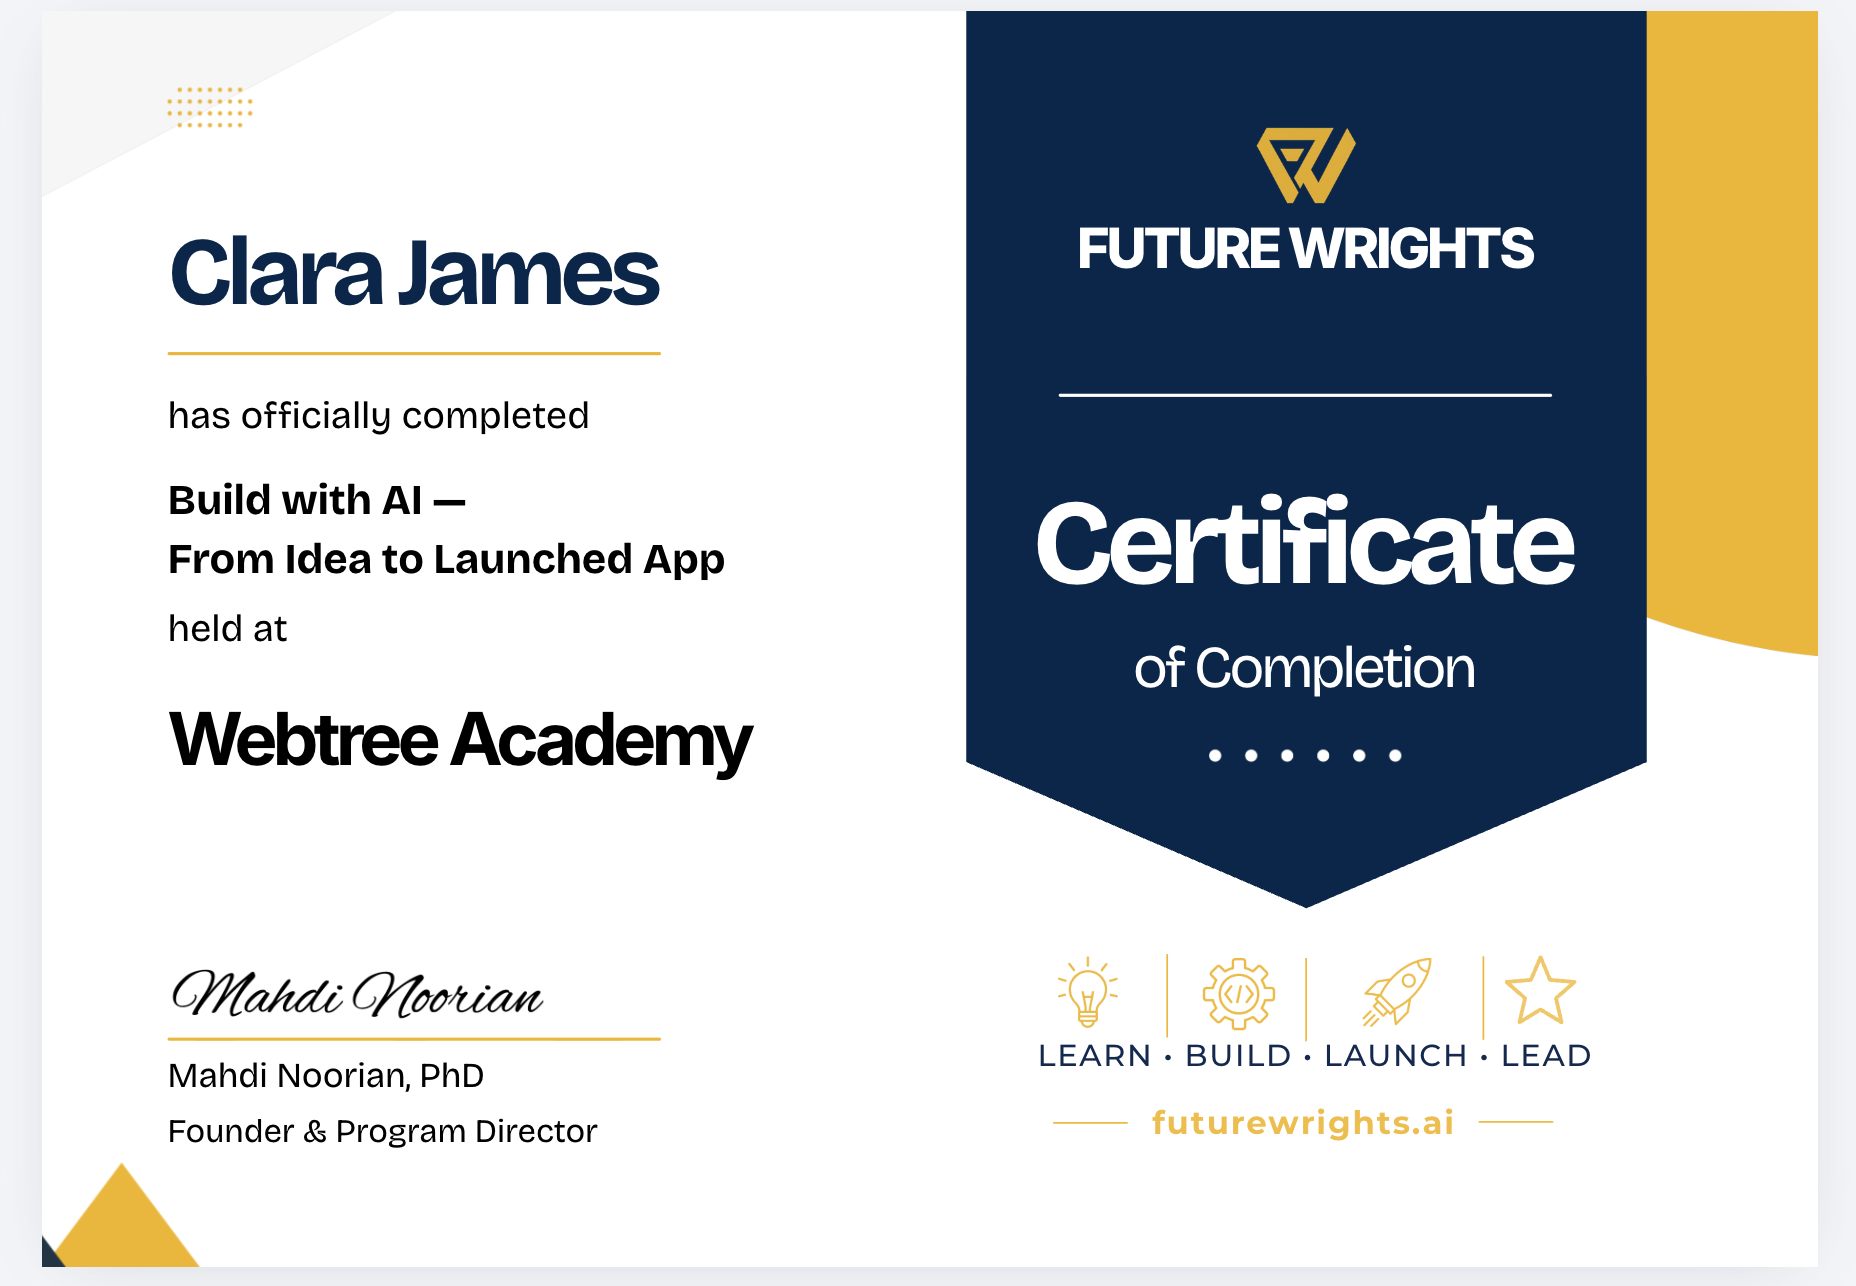
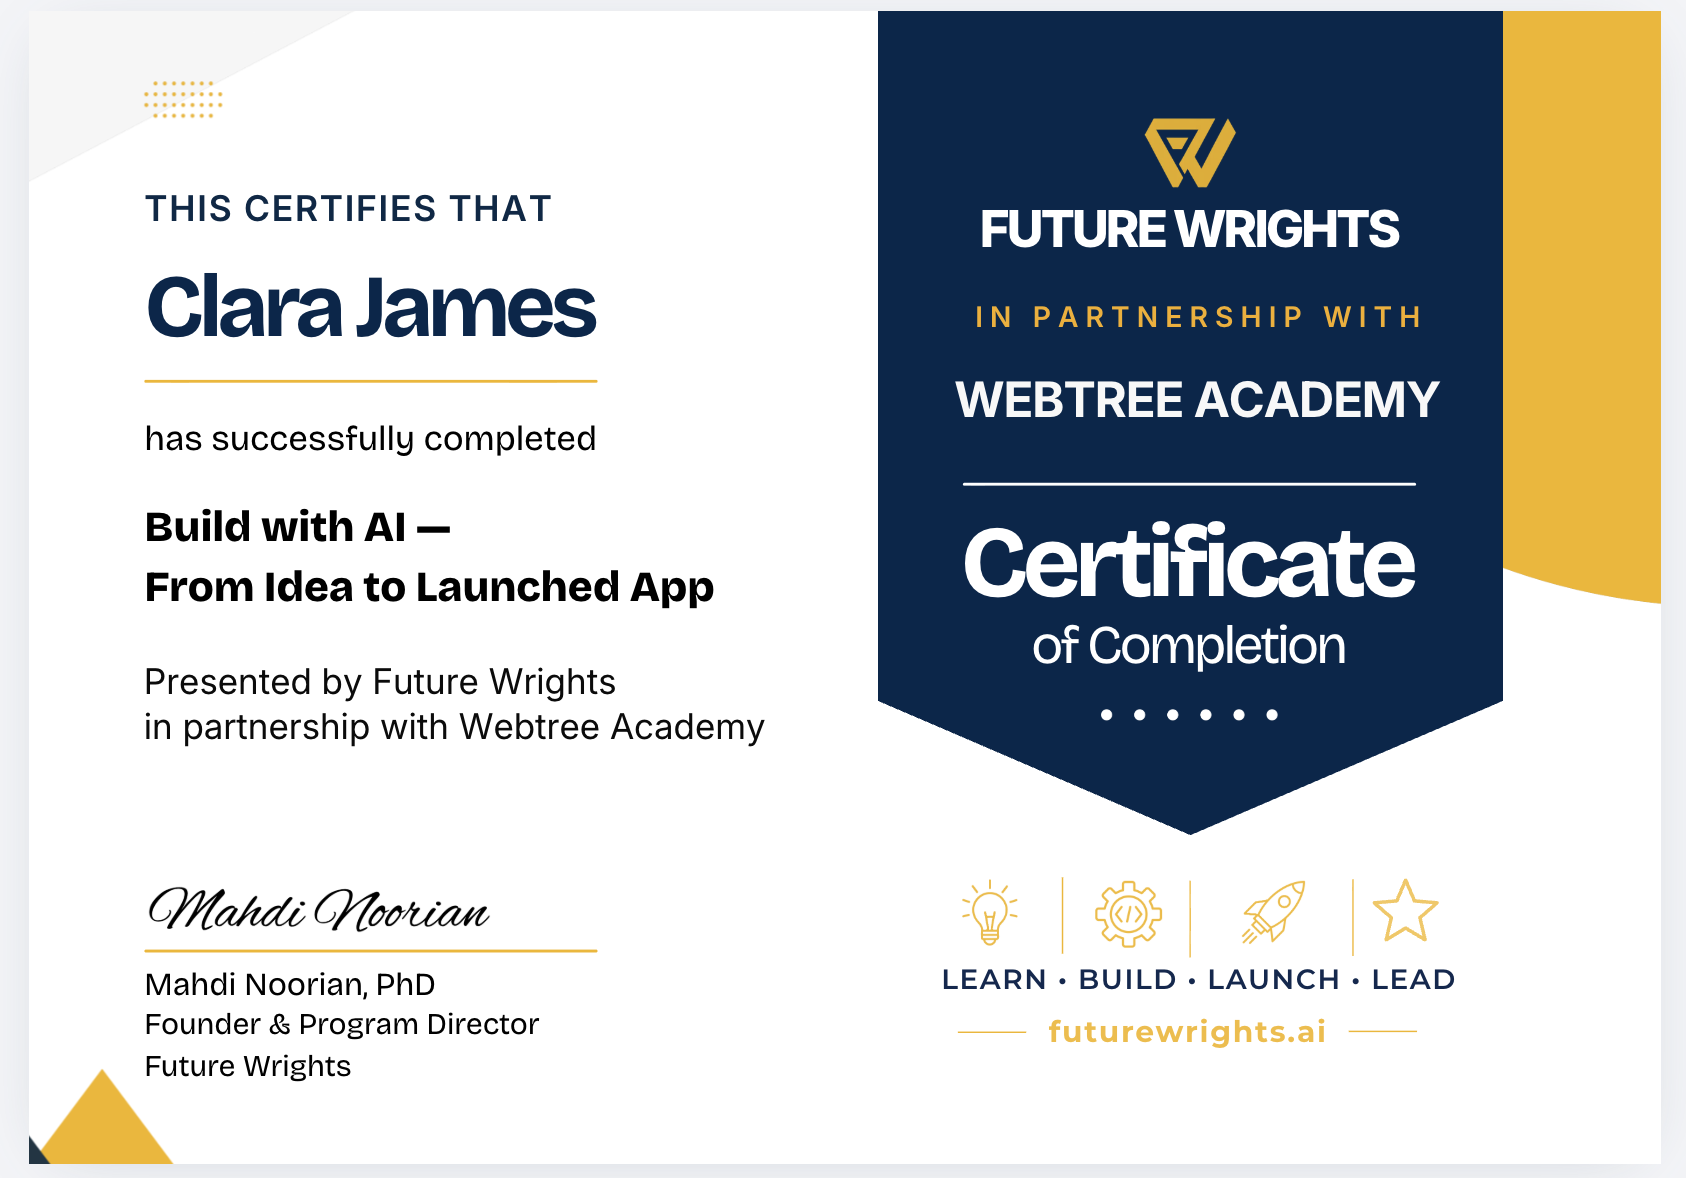
Update March bootcamp sample completion certificate

diff --git a/pages/bootcamp-march-2027.html b/pages/bootcamp-march-2027.html
@@ -670,7 +670,7 @@
     <div class="container">
       <div class="completion-grid">
         <figure class="completion-certificate">
-          <img src="../assets/images/march-2027-completion-certificate.png" alt="Sample Future Wrights certificate of completion for Build with AI at Webtree Academy" width="1856" height="1286" loading="lazy">
+          <img src="../assets/images/march-2027-completion-certificate.png" alt="Sample Future Wrights certificate of completion for Build with AI, presented in partnership with Webtree Academy" width="1686" height="1178" loading="lazy">
           <figcaption>Sample certificate of completion</figcaption>
         </figure>
         <div class="completion-copy">
